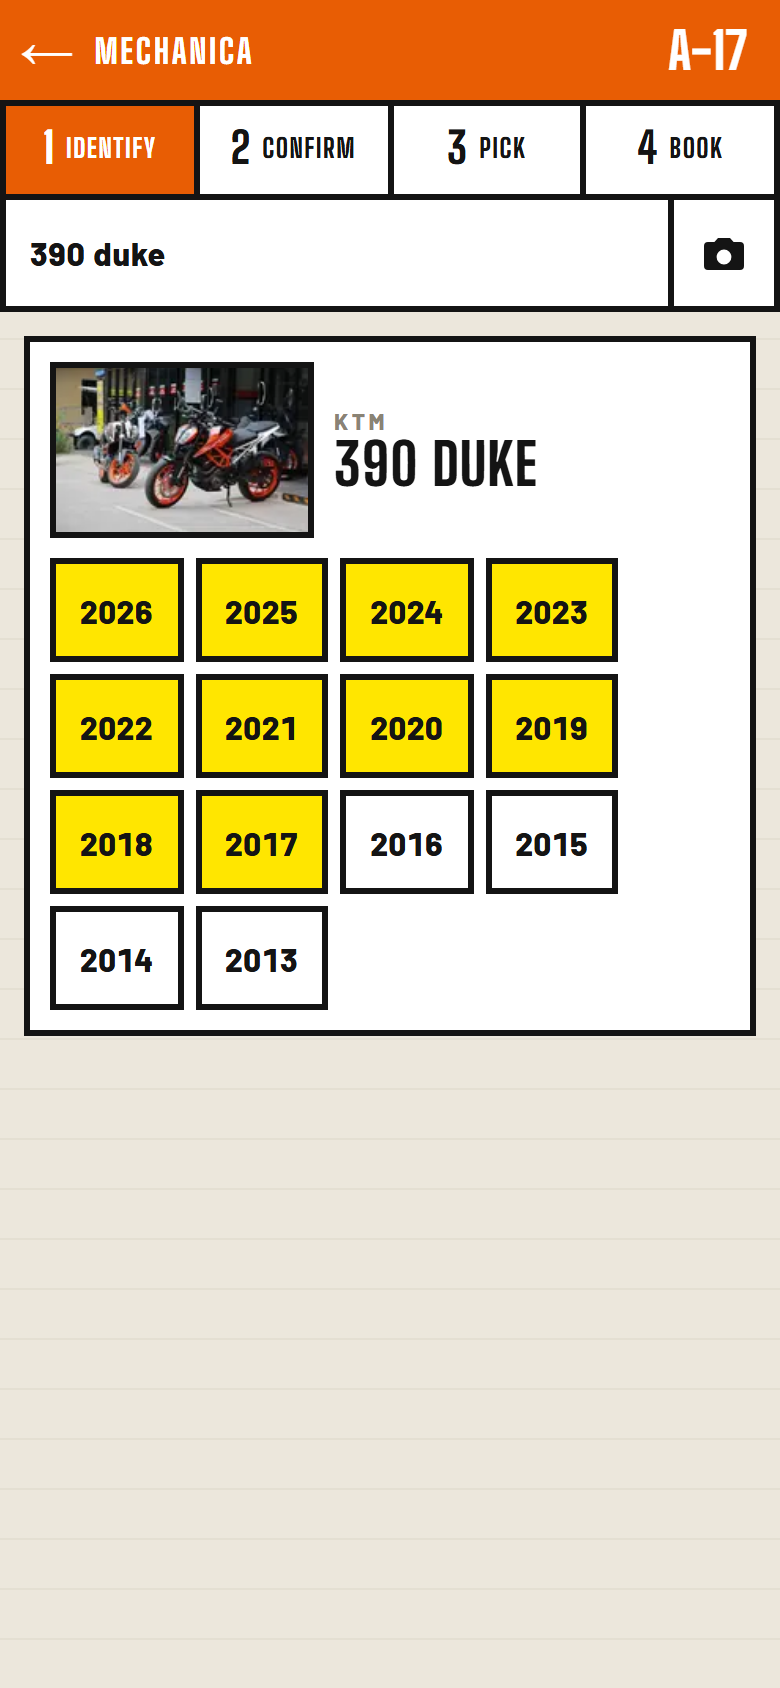
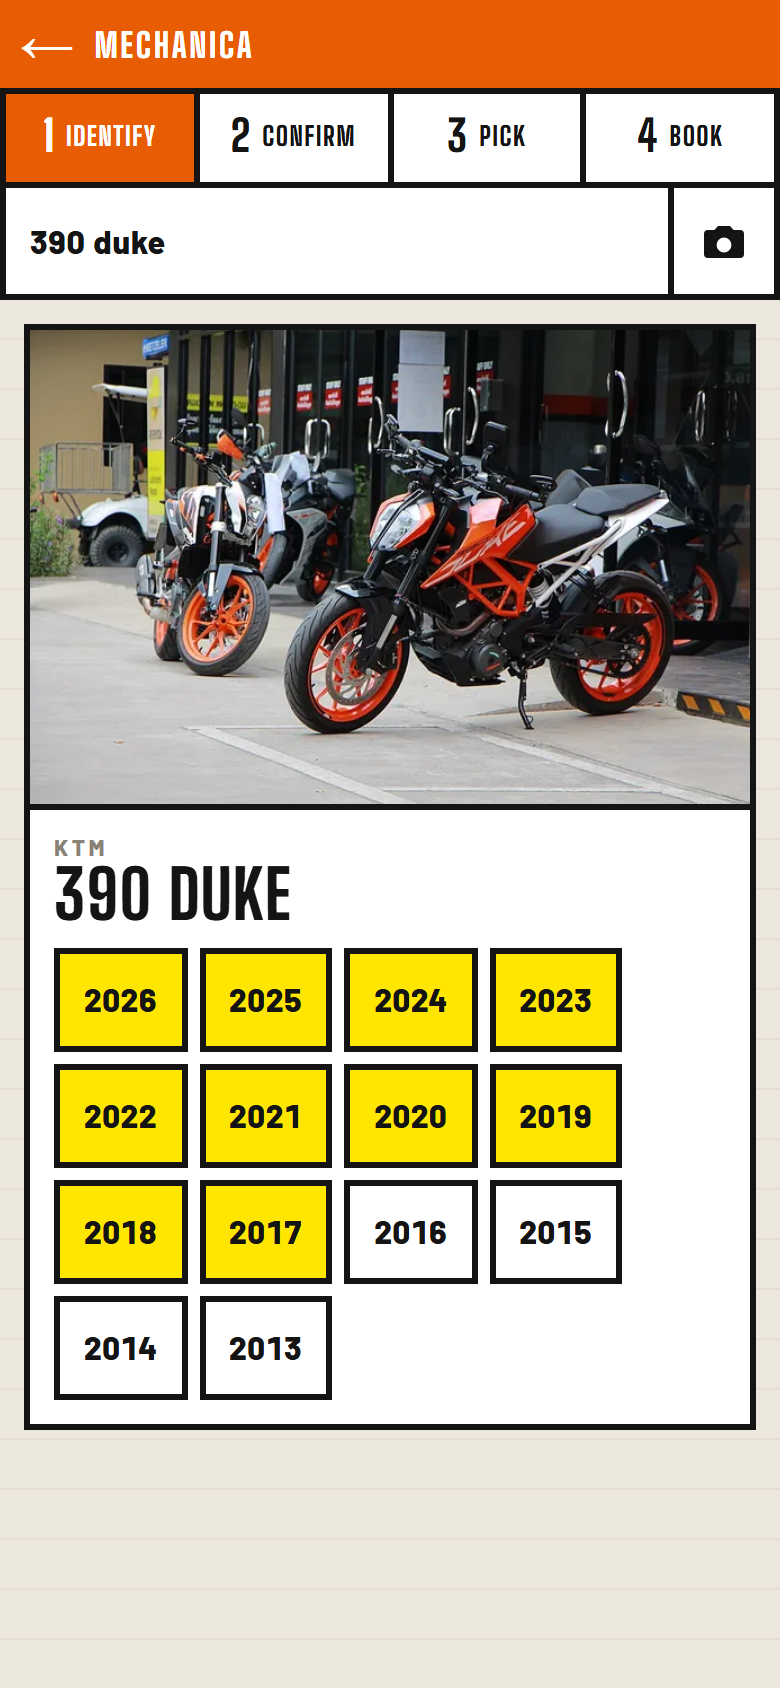
feat: large hero on chooser and confirm

diff --git a/web/counter/css/screens/identify.css b/web/counter/css/screens/identify.css
@@ -351,40 +351,41 @@ body.id-landing [data-screen="identify"] .id-cam {
 
 /* ---------------------------------------------------------- year chooser */
 
-/* The chooser tile is served the 160 px thumb, so it stays a tile: sharp at 1x and 2x. */
+/* Tapping a model shows the bike big: a full-width 3:2 hero, the name under it, the years
+   under that. Desktop puts the hero beside the name and years instead. */
 [data-screen="identify"] .id-chooser {
-  margin-top: 12px;
-  padding: 10px;
-}
-
-[data-screen="identify"] .id-chooser-top {
   display: flex;
-  align-items: stretch;
-  gap: 10px;
-  min-width: 0;
+  flex-direction: column;
+  margin-top: 12px;
+  padding: 0;
+  overflow: hidden;
 }
 
 [data-screen="identify"] .id-chooser-art {
   position: relative;
-  flex: none;
-  width: 132px;
+  width: 100%;
   aspect-ratio: 3 / 2;
-  border: 3px solid var(--ink);
+  border-bottom: 3px solid var(--ink);
   background: var(--paper);
   overflow: hidden;
 }
 
 [data-screen="identify"] .id-chooser-art.is-bare {
-  background: repeating-linear-gradient(135deg, var(--card) 0 7px, var(--rule) 7px 14px);
+  background: repeating-linear-gradient(135deg, var(--card) 0 9px, var(--rule) 9px 18px);
+}
+
+[data-screen="identify"] .id-chooser-side {
+  display: flex;
+  flex-direction: column;
+  min-width: 0;
+  padding: 12px;
 }
 
 [data-screen="identify"] .id-chooser-head {
   display: flex;
   flex-direction: column;
-  justify-content: center;
   gap: 2px;
   min-width: 0;
-  flex: 1;
 }
 
 [data-screen="identify"] .id-chooser-make {
@@ -399,7 +400,7 @@ body.id-landing [data-screen="identify"] .id-cam {
 [data-screen="identify"] .id-chooser-model {
   font-family: "Big Shoulders Display", sans-serif;
   font-weight: 800;
-  font-size: 1.8rem;
+  font-size: 2.1rem;
   line-height: 0.95;
   letter-spacing: 0.02em;
   text-transform: uppercase;
@@ -468,6 +469,36 @@ body.id-landing [data-screen="identify"] .id-cam {
 
   [data-screen="identify"] .id-model {
     font-size: 1rem;
+  }
+}
+
+/* The chosen model is the one thing on screen, so it steps out of the 720 px column and
+   sets a ~600 px hero next to the name and the years. */
+@media (min-width: 980px) {
+  [data-screen="identify"] .id-chooser {
+    flex-direction: row;
+    align-items: stretch;
+    width: min(1040px, calc(100vw - 24px));
+    margin-left: calc(50% - min(1040px, calc(100vw - 24px)) / 2);
+    margin-right: calc(50% - min(1040px, calc(100vw - 24px)) / 2);
+  }
+
+  [data-screen="identify"] .id-chooser-art {
+    flex: 0 0 600px;
+    width: 600px;
+    max-width: 60%;
+    border-bottom: 0;
+    border-right: 3px solid var(--ink);
+  }
+
+  [data-screen="identify"] .id-chooser-side {
+    flex: 1 1 auto;
+    justify-content: center;
+    padding: 16px;
+  }
+
+  [data-screen="identify"] .id-chooser-model {
+    font-size: 2.6rem;
   }
 }
 

diff --git a/web/counter/js/screens/identify.js b/web/counter/js/screens/identify.js
@@ -447,7 +447,7 @@ function watchArt(img) {
  */
 const SIZES = {
   card: ["image", "thumb", "hero"],
-  wide: ["hero", "image", "thumb"],
+  hero: ["hero", "image", "thumb"],
   tile: ["thumb", "image", "hero"],
 };
 
@@ -455,7 +455,7 @@ const WIDE_Q = typeof window !== "undefined" && window.matchMedia ? window.match
 
 function artSrc(bike, want) {
   if (!bike) return "";
-  const order = SIZES[want === "card" && WIDE_Q && WIDE_Q.matches ? "wide" : want] || SIZES.card;
+  const order = SIZES[want === "card" && WIDE_Q && WIDE_Q.matches ? "hero" : want] || SIZES.card;
   for (const key of order) {
     if (bike[key]) return Q.asset(bike[key]);
   }
@@ -557,7 +557,7 @@ function renderChooser() {
   const row = chooserRow;
   chooserEl.hidden = !row;
   if (!row) return;
-  setArt(chooserImg, chooserArt, row.bike, "tile");
+  setArt(chooserImg, chooserArt, row.bike, "hero");
   chooserMake.textContent = row.bike.make ?? "";
   chooserModel.textContent = row.bike.model ?? "";
   const off = !Q.online();
@@ -1091,9 +1091,10 @@ registerScreen("identify", {
     const head = el("div", { className: "id-chooser-head" });
     head.append(chooserMake, chooserModel);
     chooserYears = el("div", { className: "id-chooser-years" });
-    const top = el("div", { className: "id-chooser-top" });
-    top.append(chooserArt, head);
-    chooserEl.append(top, chooserYears);
+    // Phone: hero, then the name, then the years. Desktop: hero beside name + years.
+    const side = el("div", { className: "id-chooser-side" });
+    side.append(head, chooserYears);
+    chooserEl.append(chooserArt, side);
 
     gridEl = el("div", { className: "id-grid", hidden: true });
 

diff --git a/web/counter/css/screens/confirm.css b/web/counter/css/screens/confirm.css
@@ -508,8 +508,14 @@
   }
 }
 
+/* The bike is the question this screen asks, so its frame keeps the full width of the
+   column on phones and stays large on desktop; only the alternatives are thumbs. */
 @media (min-width: 640px) {
   [data-screen="confirm"] .confirm-photo {
-    max-height: 42vh;
+    max-height: 56vh;
+  }
+
+  [data-screen="confirm"] .confirm-photo.is-split {
+    max-height: 40vh;
   }
 }
